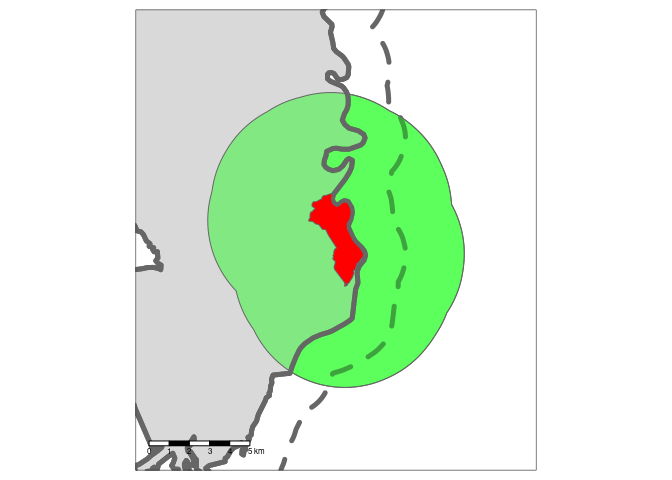
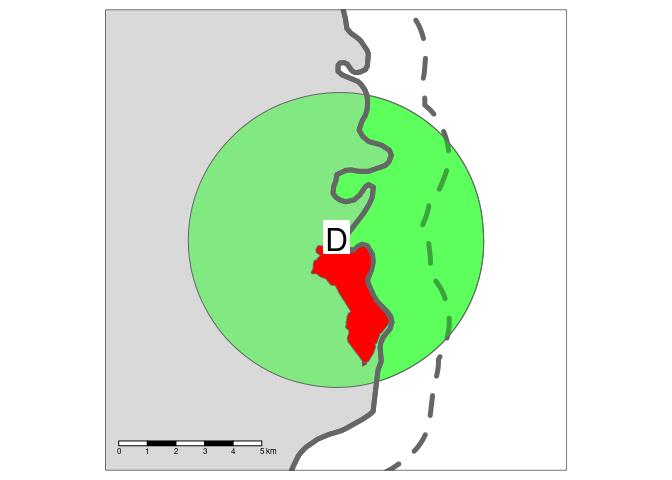
Use data from worldpop, close #1

diff --git a/README.md b/README.md
@@ -64,10 +64,17 @@ Abergavenny highlighted in red.
 
 </div>
 
-We tested two approaches to define the ‘area of interest’: a simple
-buffer and a three-stage buffering process, as illustrated in Figure
+The main destinations of interest were schools and leisure centres.
+These can be obtained from OpenStreetMap with the tags (key-value pairs)
+`amenity=school` and `leisure=sports_centre`.
+
+Other than destinations of interest, the other key input was the
+boundary of the region responsible for the transport system in the local
+area. We tested two approaches to define the ‘area of interest’ defining
+the area within which routes were calculated: a simple buffer and a
+three-stage buffering process, as illustrated in Figure
 <a href="#fig:buffers">2.2</a>. The simple buffer approach involved
-creating polygon with borders a fixed distance (10 km in the first
+creating polygon with borders a fixed distance (5 km in the first
 instance) around the destination (in this case the parishes of Chepstown
 and Abergavenny). Model run times (and visualisation load times in
 interactive maps) depend on the amount of data served, creating an
@@ -77,9 +84,9 @@ planners have control (and budget). In this context, the three-stage
 process was developed as follows:
 
 1.  Create a buffer around the zone of interest with a threshold
-    distance (set to 10 km)
+    distance (set to 5 km)
 2.  Create a separate buffer around the region of interest to allow for
-    some (more limited) inter-regional flow (set to 1 km)
+    some (more limited) inter-regional flow (set to 2 km)
 3.  Calculate the intersection between the two buffers outlined in the
     previous stages
 
@@ -89,20 +96,21 @@ process was developed as follows:
 
 <div class="figure">
 
-<img src="README_files/figure-gfm/buffers-1.png" alt="Illustration of the simple buffer and three stage buffering approaches to identify areas of interest within which travel to destinations in the zones could take place" width="49%" /><img src="README_files/figure-gfm/buffers-2.png" alt="Illustration of the simple buffer and three stage buffering approaches to identify areas of interest within which travel to destinations in the zones could take place" width="49%" />
+<img src="README_files/figure-gfm/buffers-1.png" alt="Illustration of the simple buffer and three stage buffering approaches to identify areas of interest within which travel to destinations in the zones could take place. The D represents the desination of interest." width="49%" /><img src="README_files/figure-gfm/buffers-2.png" alt="Illustration of the simple buffer and three stage buffering approaches to identify areas of interest within which travel to destinations in the zones could take place. The D represents the desination of interest." width="49%" />
 <p class="caption">
 Figure 2.2: Illustration of the simple buffer and three stage buffering
 approaches to identify areas of interest within which travel to
-destinations in the zones could take place
+destinations in the zones could take place. The D represents the
+desination of interest.
 </p>
 
 </div>
 
 <!-- # Study area and data -->
+<!-- ## Definition of travel watersheds -->
+<!-- Explain how extent of analysis was computed (RL + CC) -->
 
-## 2.1 Definition of travel watersheds
-
-Explain how extent of analysis was computed (RL + CC)
+Other than the school location and parish
 
 # 3 Origin-destination analysis
 
